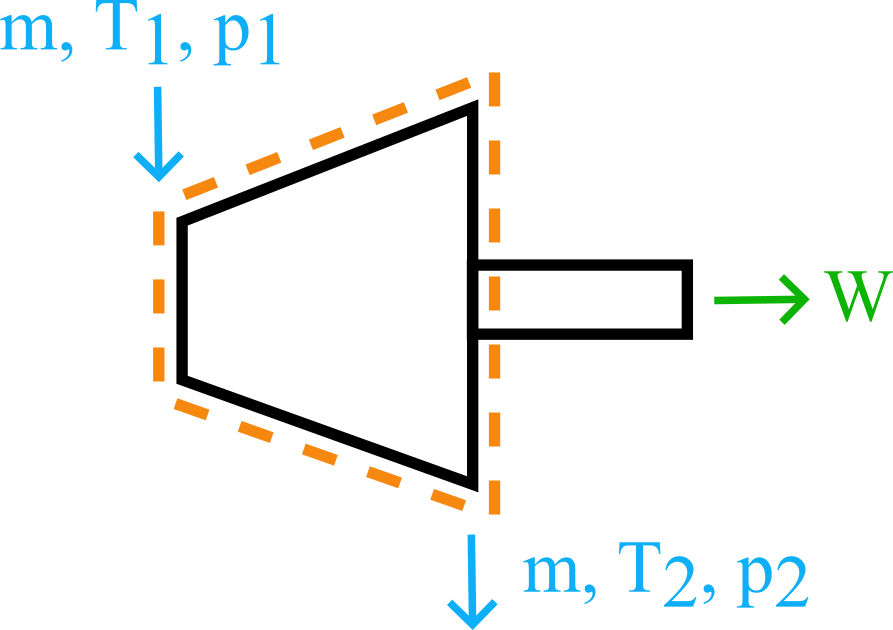
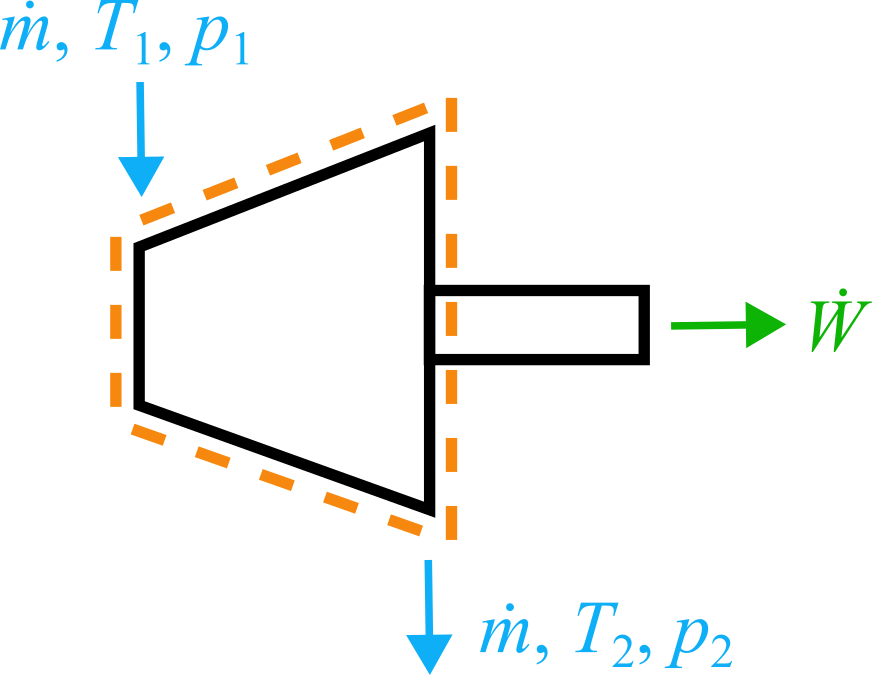
Update images

Changed region(s): [[0.0, 0.0, 1.0, 1.0]]

diff --git a/index.html b/index.html
@@ -377,7 +377,7 @@
                 </a>
 
                 <a class="sim-card" href="/templates/eq_schem_plot-io.html?course=me310&topic=11.48-eq">
-                  <div class="thumb"><img src="/assets/me310/11.47-eq.png"></div>
+                  <div class="thumb"><img src="/assets/me310/11.48-eq.png"></div>
                   <h3>Mach Number of the Isentropic Flow of an Ideal Gas with Constant Specific Heat</h3>
                 </a>
 